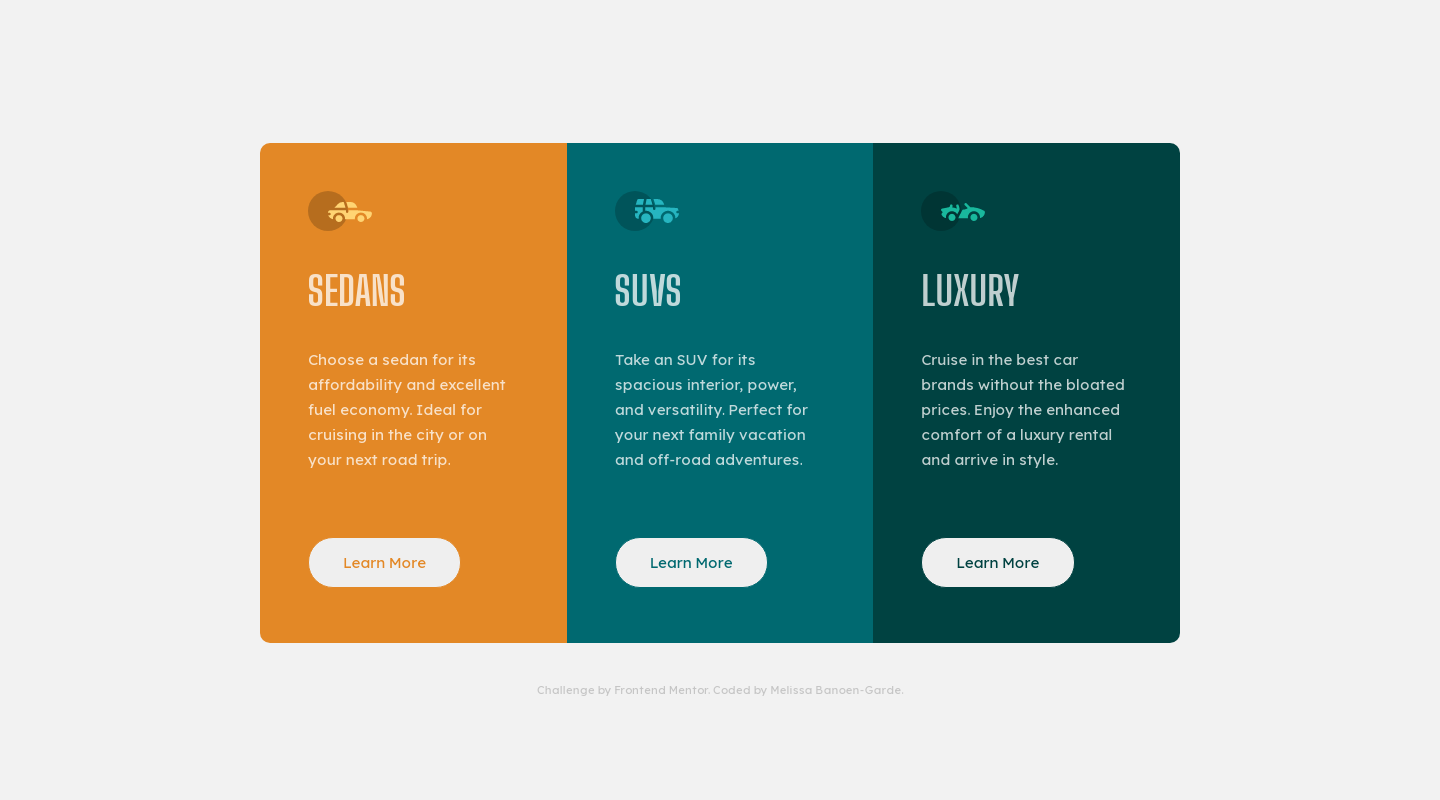
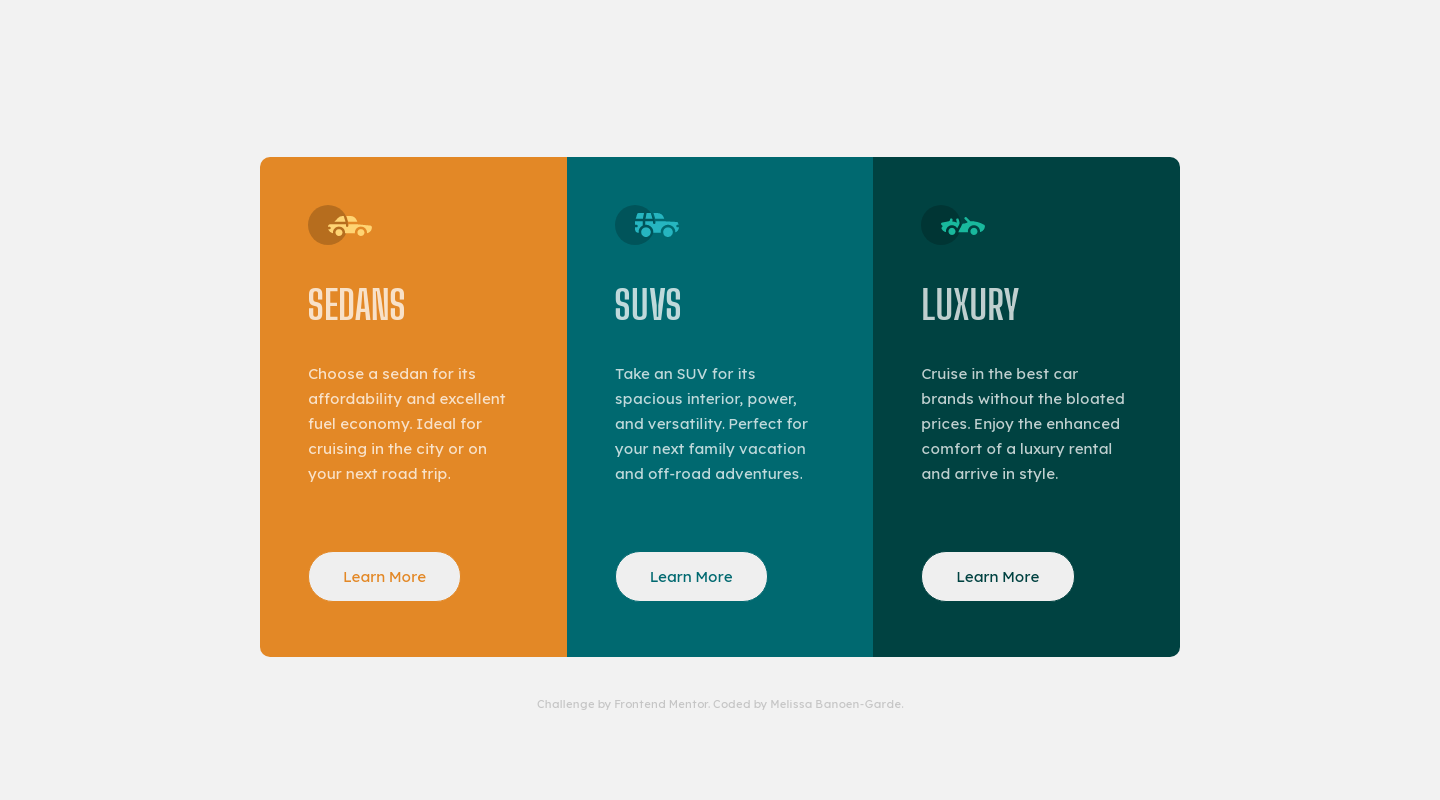
add absolute position to the card and footer

diff --git a/Newbie/3-column-preview-card-component-main/css/style.css b/Newbie/3-column-preview-card-component-main/css/style.css
@@ -42,6 +42,8 @@ body {
   width: 57.5rem; /* 500px */
   margin-top: 1.75em;
   border-radius: var(--radius);
+
+  position: relative;
 }
 
 .grid__cell {
@@ -131,8 +133,8 @@ body {
 
 .footer {
   display: block;
-  position: relative;
-  bottom: -5%;
+  position: absolute;
+  bottom: 5%;
   font-size: 0.7rem;
 }
 
